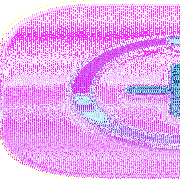
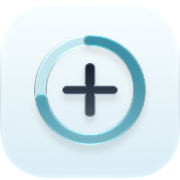
修正網站圖示色彩解碼與快取版本

diff --git a/src/lib/brand.ts b/src/lib/brand.ts
@@ -1,4 +1,4 @@
 // 從 iOS CrossIcon.icon 匯出的「光環十字」；版本網址避免沿用舊標誌快取。
-export const BRAND_ICON = "/icons/cross-512-20261029.png";
-export const BRAND_FAVICON = "/icons/cross-20261029.ico";
-export const BRAND_APPLE_ICON = "/icons/apple-touch-20261029.png";
+export const BRAND_ICON = "/icons/cross-512-20261029-v2.png";
+export const BRAND_FAVICON = "/icons/cross-20261029-v2.ico";
+export const BRAND_APPLE_ICON = "/icons/apple-touch-20261029-v2.png";

diff --git a/docs/brand-icon.md b/docs/brand-icon.md
@@ -10,13 +10,13 @@
 node scripts/export-ios-icons.mjs
 ```
 
-腳本直接使用 Icon Composer 內的 ictool，依 iOS／Default 外觀匯出；不是從舊 PNG 放大或重新繪製。再以 Xcode 隨附的 pngcrush 轉為標準 8-bit PNG，保留圖案與色彩描述，避免 16-bit PNG 在 ICO 讀取器中的相容問題。
+腳本直接使用 Icon Composer 內的 ictool，依 iOS／Default 外觀匯出；不是從舊 PNG 放大或重新繪製。再以 Sharp 正確解碼並轉為 sRGB／8-bit PNG，避免 16-bit PNG 在 ICO 讀取器中的相容問題。Sharp 僅為本機匯出所需的開發依賴，正式網站只讀取靜態圖示。
 
 - 512×512：瀏覽器 PNG 圖示與頁首、頁尾、登入、後台品牌標誌。
 - 180×180：apple-touch-icon。
 - 16／32／48／64：ICO 內嵌的四個原生匯出尺寸。
 
-圖示路徑集中於 `src/lib/brand.ts`，使用有版本的 `/icons/` 網址；舊 favicon.ico、icon.png、apple-icon.png、cross-icon.png 同步新圖以保留相容性。未加入 PWA 或 Service Worker。
+圖示路徑集中於 `src/lib/brand.ts`，使用有版本的 `/icons/` 網址，最終為 20261029-v2；舊 favicon.ico、icon.png、apple-icon.png、cross-icon.png 及第一版網址同步正確新圖以保留相容性。未加入 PWA 或 Service Worker。
 
 輸出檔已提交，網站建置與正式伺服器不需要 Xcode，也不讀取 iOS 專案。日後更新圖示時應一併調整輸出檔名版本與 `brand.ts`。
 
